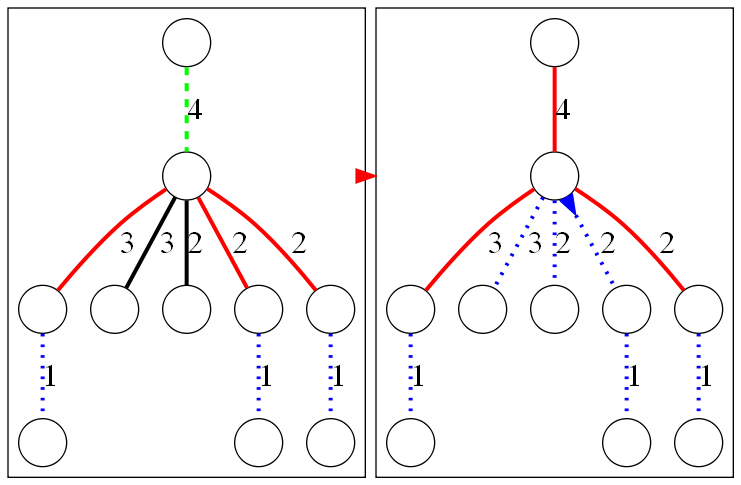
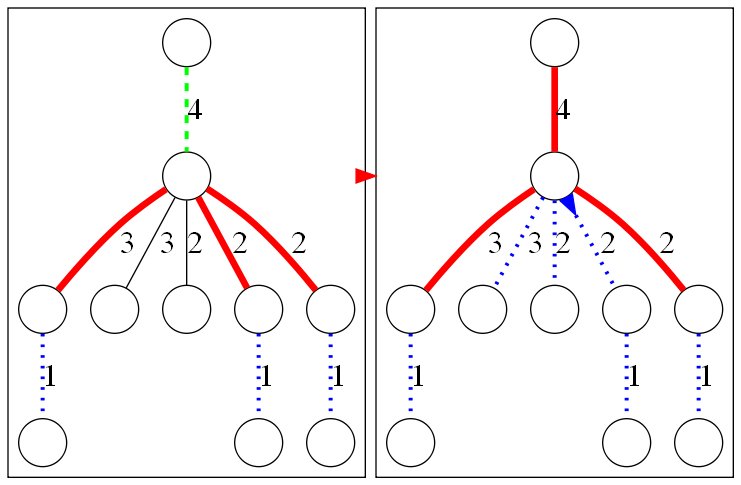
Make the red edges in Figure 9 bolder.

diff --git a/waterfallpaper.tex b/waterfallpaper.tex
@@ -426,7 +426,7 @@ Despite the speed and effectiveness of Marcotegui's method, it can be somewhat i
 	%
 	\subfigure[The considered edge is not a lowest edge]
 	{\includegraphics[height=4.5cm]{segmentation-waterfall-nicholls-cases-a.png}}%
-\caption[Case analysis for step 2(c) of the SW method]{Case analysis for step 2(c) of the SW method: black edges are non-guards, red edges are guards, blue/dotted edges are those which have been contracted and the green/dashed edge is $e = (n_p,n_c)$, the edge under active consideration. The arrow (on the node $n_c$) indicates the direction in which the method presumes water to flow.}
+\caption[Case analysis for step 2(c) of the SW method]{Case analysis for step 2(c) of the SW method: black edges are non-guards, red/bold edges are guards, blue/dotted edges are those which have been contracted and the green/dashed edge is $e = (n_p,n_c)$, the edge under active consideration. The arrow (on the node $n_c$) indicates the direction in which the method presumes water to flow.}
 \label{fig:segmentation-waterfall-nicholls-cases}
 \end{stusubfig}
 %---
